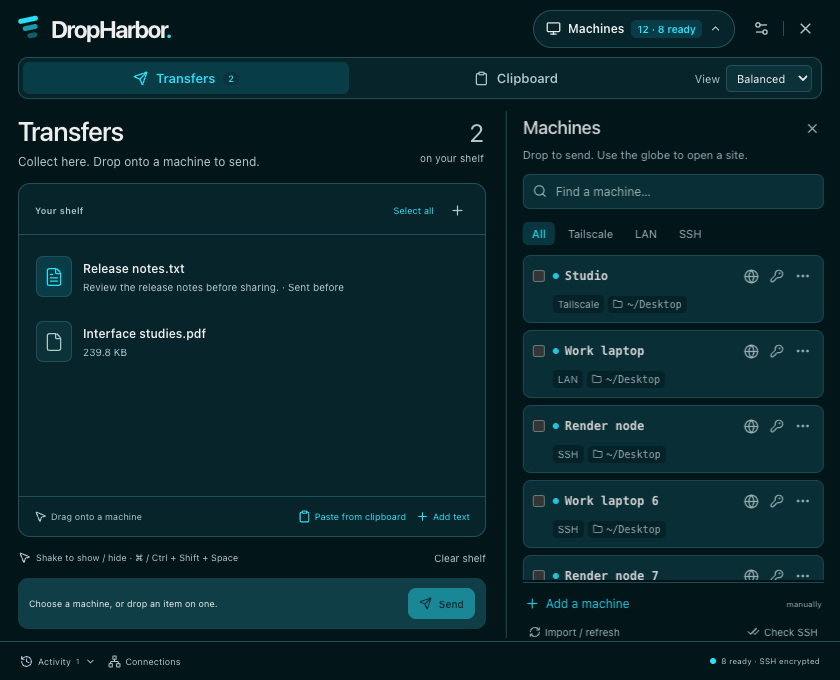
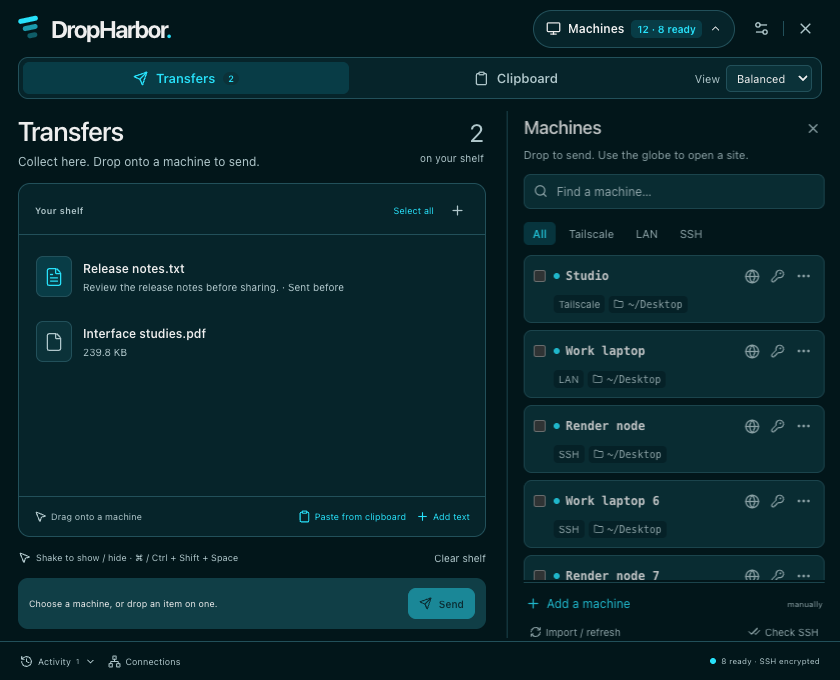
Finalize verified layouts for DropHarbor 0.4.0

diff --git a/README.md b/README.md
@@ -42,7 +42,7 @@ Select shelf items and tick the target machines, then review **Send N items to M
 
 ## View modes and portable configuration
 
-Settings provides **Compact**, **Expanded**, and **Large** views. The app resizes to the available screen space and remembers your choice.
+The visible **View** selector and Settings provide **Compact**, **Balanced** (default), and **Expanded** views. Compact uses dense rows; Balanced keeps everyday actions visible; Expanded adds inline forwarding controls and recent transfer receipts. The app resizes to the available screen space and remembers your choice. Existing Expanded/Large preferences map to Balanced/Expanded without changing the configuration format.
 
 Use **Settings → Export configuration** to save a versioned `DropHarbor-config.json`, then **Import configuration** on another device. See [the example file](config/lex-drift-config.example.json). Import validates the entire file before applying it, merges endpoints instead of deleting existing machines, and preserves local authentication only for an exact address/username/port match. Imported hosts need a fresh SSH check.
 
@@ -125,8 +125,8 @@ Clear shelf offers a 10-second Undo, restoring the exact cleared items alongside
 
 ## Port forwarding
 
-Right-click a machine or choose its Connections button. Choose **Local →** to listen on this device and reach a destination through that SSH machine, or **Remote ←** to listen on the SSH machine and reach a destination through this device. Enter a destination hostname/IP, its port, and the listening port, then choose Start. For example, Local with destination `localhost:3000` and listening port `8080` makes the remote service available at `127.0.0.1:8080` on this device.
+Choose the globe on a machine and enter a URL such as `http://localhost:1331`, then choose **Go**. A saved website reopens with one click on that globe. **Advanced** reveals Local/Remote direction and destination/listening ports; Expanded view keeps those controls visible. Local listens on this device and reaches the URL through the SSH machine. Remote listens on the SSH machine and reaches the destination through this device. Local live websites can open in your browser; Remote forwards do not open as local sites. A live chip on the machine stops that connection. Right-click or the three-dot menu retains advanced setup, history, access, editing and removal.
 
-Connections shows starting/running/failed status, the owned OpenSSH process ID where applicable, and Stop. Save a plan to History to repeat it later; each saved plan can have a note. Plans never restart automatically. Editing a machine's endpoint invalidates an old plan until you review a new one. Quitting closes the app's own tunnels.
+Go reports Forwarding or Live inline. Connections shows starting/running/failed status, the owned OpenSSH process ID where applicable, and Stop. Save a plan to History to repeat it later; each saved plan can have a note. Plans never restart automatically. Website scheme and pathname are remembered locally for saved plans; query strings and fragments are not persisted. These website preferences are currently excluded from configuration exports. HTTPS sites still need certificates and routing that work at the forwarded local address. Editing a machine's endpoint invalidates an old plan until you review a new one. Quitting closes the app's own tunnels.
 
 Listeners bind to loopback. Remote forwarding verifies the actual remote listener before reporting Running, because SSH GatewayPorts settings can override requested bindings. Remote machines need `ss`, `lsof`, or Windows `Get-NetTCPConnection` for that check. An SSH alias with existing forwarding rules is refused to prevent opening additional ports unintentionally. Existing trusted key access and encrypted saved-password access are supported. Running means the SSH tunnel/listener is established; the destination service must also be available when used.

diff --git a/docs/UI_REDESIGN.md b/docs/UI_REDESIGN.md
@@ -32,17 +32,15 @@ Added: `--font-mono`, a shared system-monospace stack for hostnames, endpoints, 
 
 ## Verification
 
-Final layout verification is pending: the narrow Balanced clipboard preview threshold was increased from 470px to 620px after the last successful renderer build. Grok's automatic approval review blocked the subsequent build-wrapper execution before compilation. The headless results and after screenshots below describe the preceding build; the added minimum-history-height assertion must be run against a fresh build before this PR is marked ready. Approval for a direct local renderer build has been requested.
-
 On 28 September 2026:
 
 - 175 Node tests passed, including the native controller, browser-opening validation, URL parsing, endpoint safeguards, shared forwarding-operation races, clipboard, configuration, shelf Undo and singleton behavior.
 - Headless machine/quick-connect tests passed for all densities, keyboard/context-menu access, reduced motion, exact URL-to-forward mapping, URL drop isolation, saved repeat, Remote semantics, failures, Stop during startup, independent per-host drafts, multiple-live-forward access, shelf Undo and batch sending.
 - Eight Clipboard browser groups passed: three density/layout checks, workspace-state persistence, keyboard/copy/pin/focus behavior, global clear scope, stale-detail isolation, and opt-in/editing status.
 - The actual new URL bar was exercised against a trusted POSIX host over Tailscale with the production SSH TunnelManager. Go returned the expected nonce from an owned in-memory HTTP fixture; Stop closed the listener; one-click saved repeat returned a second verified response; final Stop and cleanup closed the remote fixture, local listener and owned SSH processes. The browser-opening adapter fetched the validated address instead of creating an OS browser window.
-- Grok 4.7 reviewed the design and performed the renderer compilation through an exact-command build wrapper. Response metadata identified `grok-4.7-build`.
+- Grok 4.7 reviewed the design and performed earlier renderer compilations. Response metadata identified `grok-4.7-build`. After its final wrapper execution was blocked, the user authorized a direct local build; that fresh build, the added Balanced history-height check, and refreshed screenshots all passed.
 
-Native Windows/Linux desktop execution and an actual OS browser launch were not performed in this pass. Browser-launch validation and dispatch were covered with inert native tests. No installed desktop app or release artifact was replaced by this PR.
+Native Windows/Linux desktop execution and an actual OS browser launch were not performed in this pass. Browser-launch validation and dispatch were covered with inert native tests. Package and installation verification for v0.4.0 is recorded separately in VERIFICATION.md.
 
 Reproduce automated checks with Node 22.12+:
 

diff --git a/VERIFICATION.md b/VERIFICATION.md
@@ -1,4 +1,15 @@
-# DropHarbor / lex-drift v0.3.0 verification
+# DropHarbor / lex-drift v0.4.0 verification
+
+Version 0.4.0 redesigns machine cards, adds the small website URL bar and one-click saved sites, and improves clipboard density, scrolling and keyboard actions. The final renderer build and all headless UI checks passed, including the last Balanced preview-height change. See [UI design, screenshots and verification](docs/UI_REDESIGN.md).
+
+- 175 automated Node tests passed for the implementation, including native browser-opening guards, endpoint-bound repeat, forwarding races, clipboard/configuration, shelf Undo and worker exclusivity.
+- Three density modes and eight Clipboard browser groups passed in headless Chrome. UI checks cover keyboard/context menus, reduced motion, URL drop isolation, per-host drafts, Stop during startup, saved repeat, exact shelf drop and batch selection, clear scope and workspace-state persistence.
+- The new URL bar was exercised against a trusted live POSIX host over Tailscale with production SSH forwarding. Go and saved repeat each returned the expected HTTP nonce, Stop closed the listener, and the owned remote fixture and SSH processes were cleaned up. The browser adapter fetched the validated address to keep the desktop quiet; native validation/dispatch were separately tested.
+- Grok 4.7 reviewed the design. The final renderer build was run directly after explicit user authorization following a blocked Grok wrapper execution.
+
+Package and installed-app checks for this release are recorded after packaging. Cross-built Windows/Linux packages do not establish native desktop validation. Packages remain unsigned private prereleases; neither repository visibility nor clipboard opt-in defaults change.
+
+## Earlier validated evidence: v0.3.0
 
 This version adds an equally prominent encrypted Clipboard workspace, one-time and saved password access, multi-machine sends, local/remote SSH forwarding with saved history/notes, and More deliberate defaults. All 148 automated tests and the production renderer build passed for this revision. The release verification compares packaged source and architectures, checks archive integrity, and verifies uploaded SHA-256 hashes.
 
